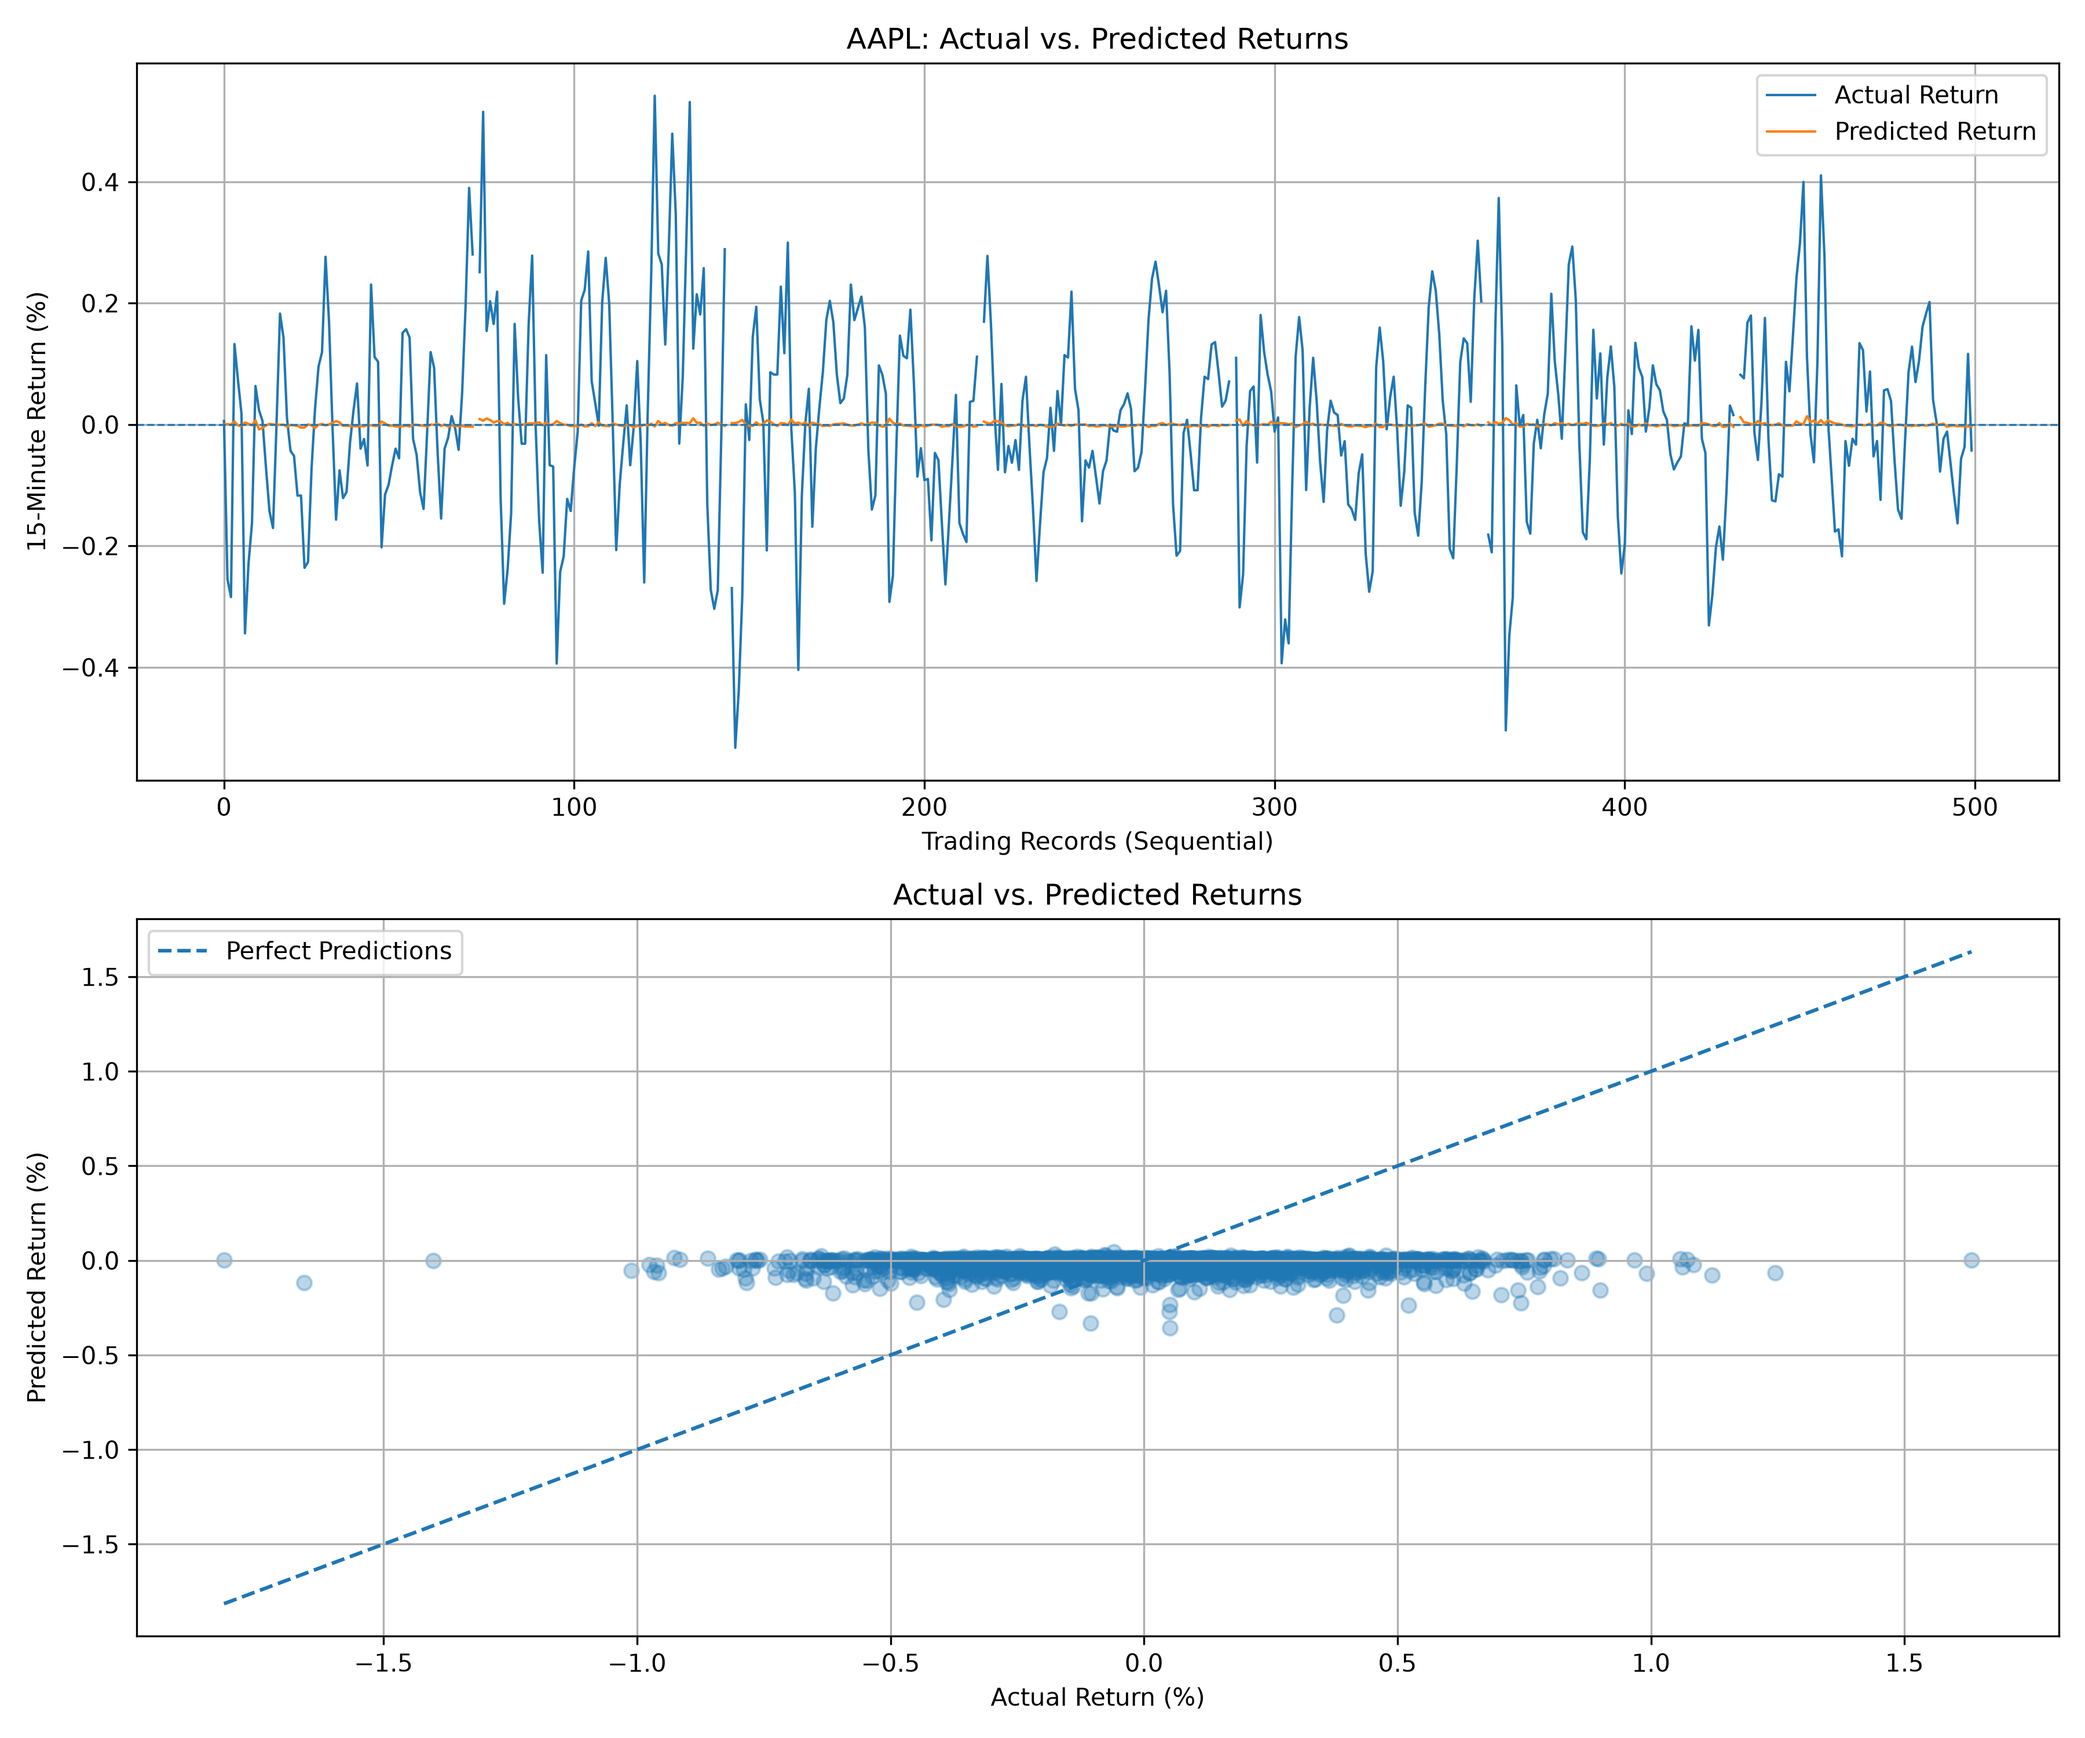
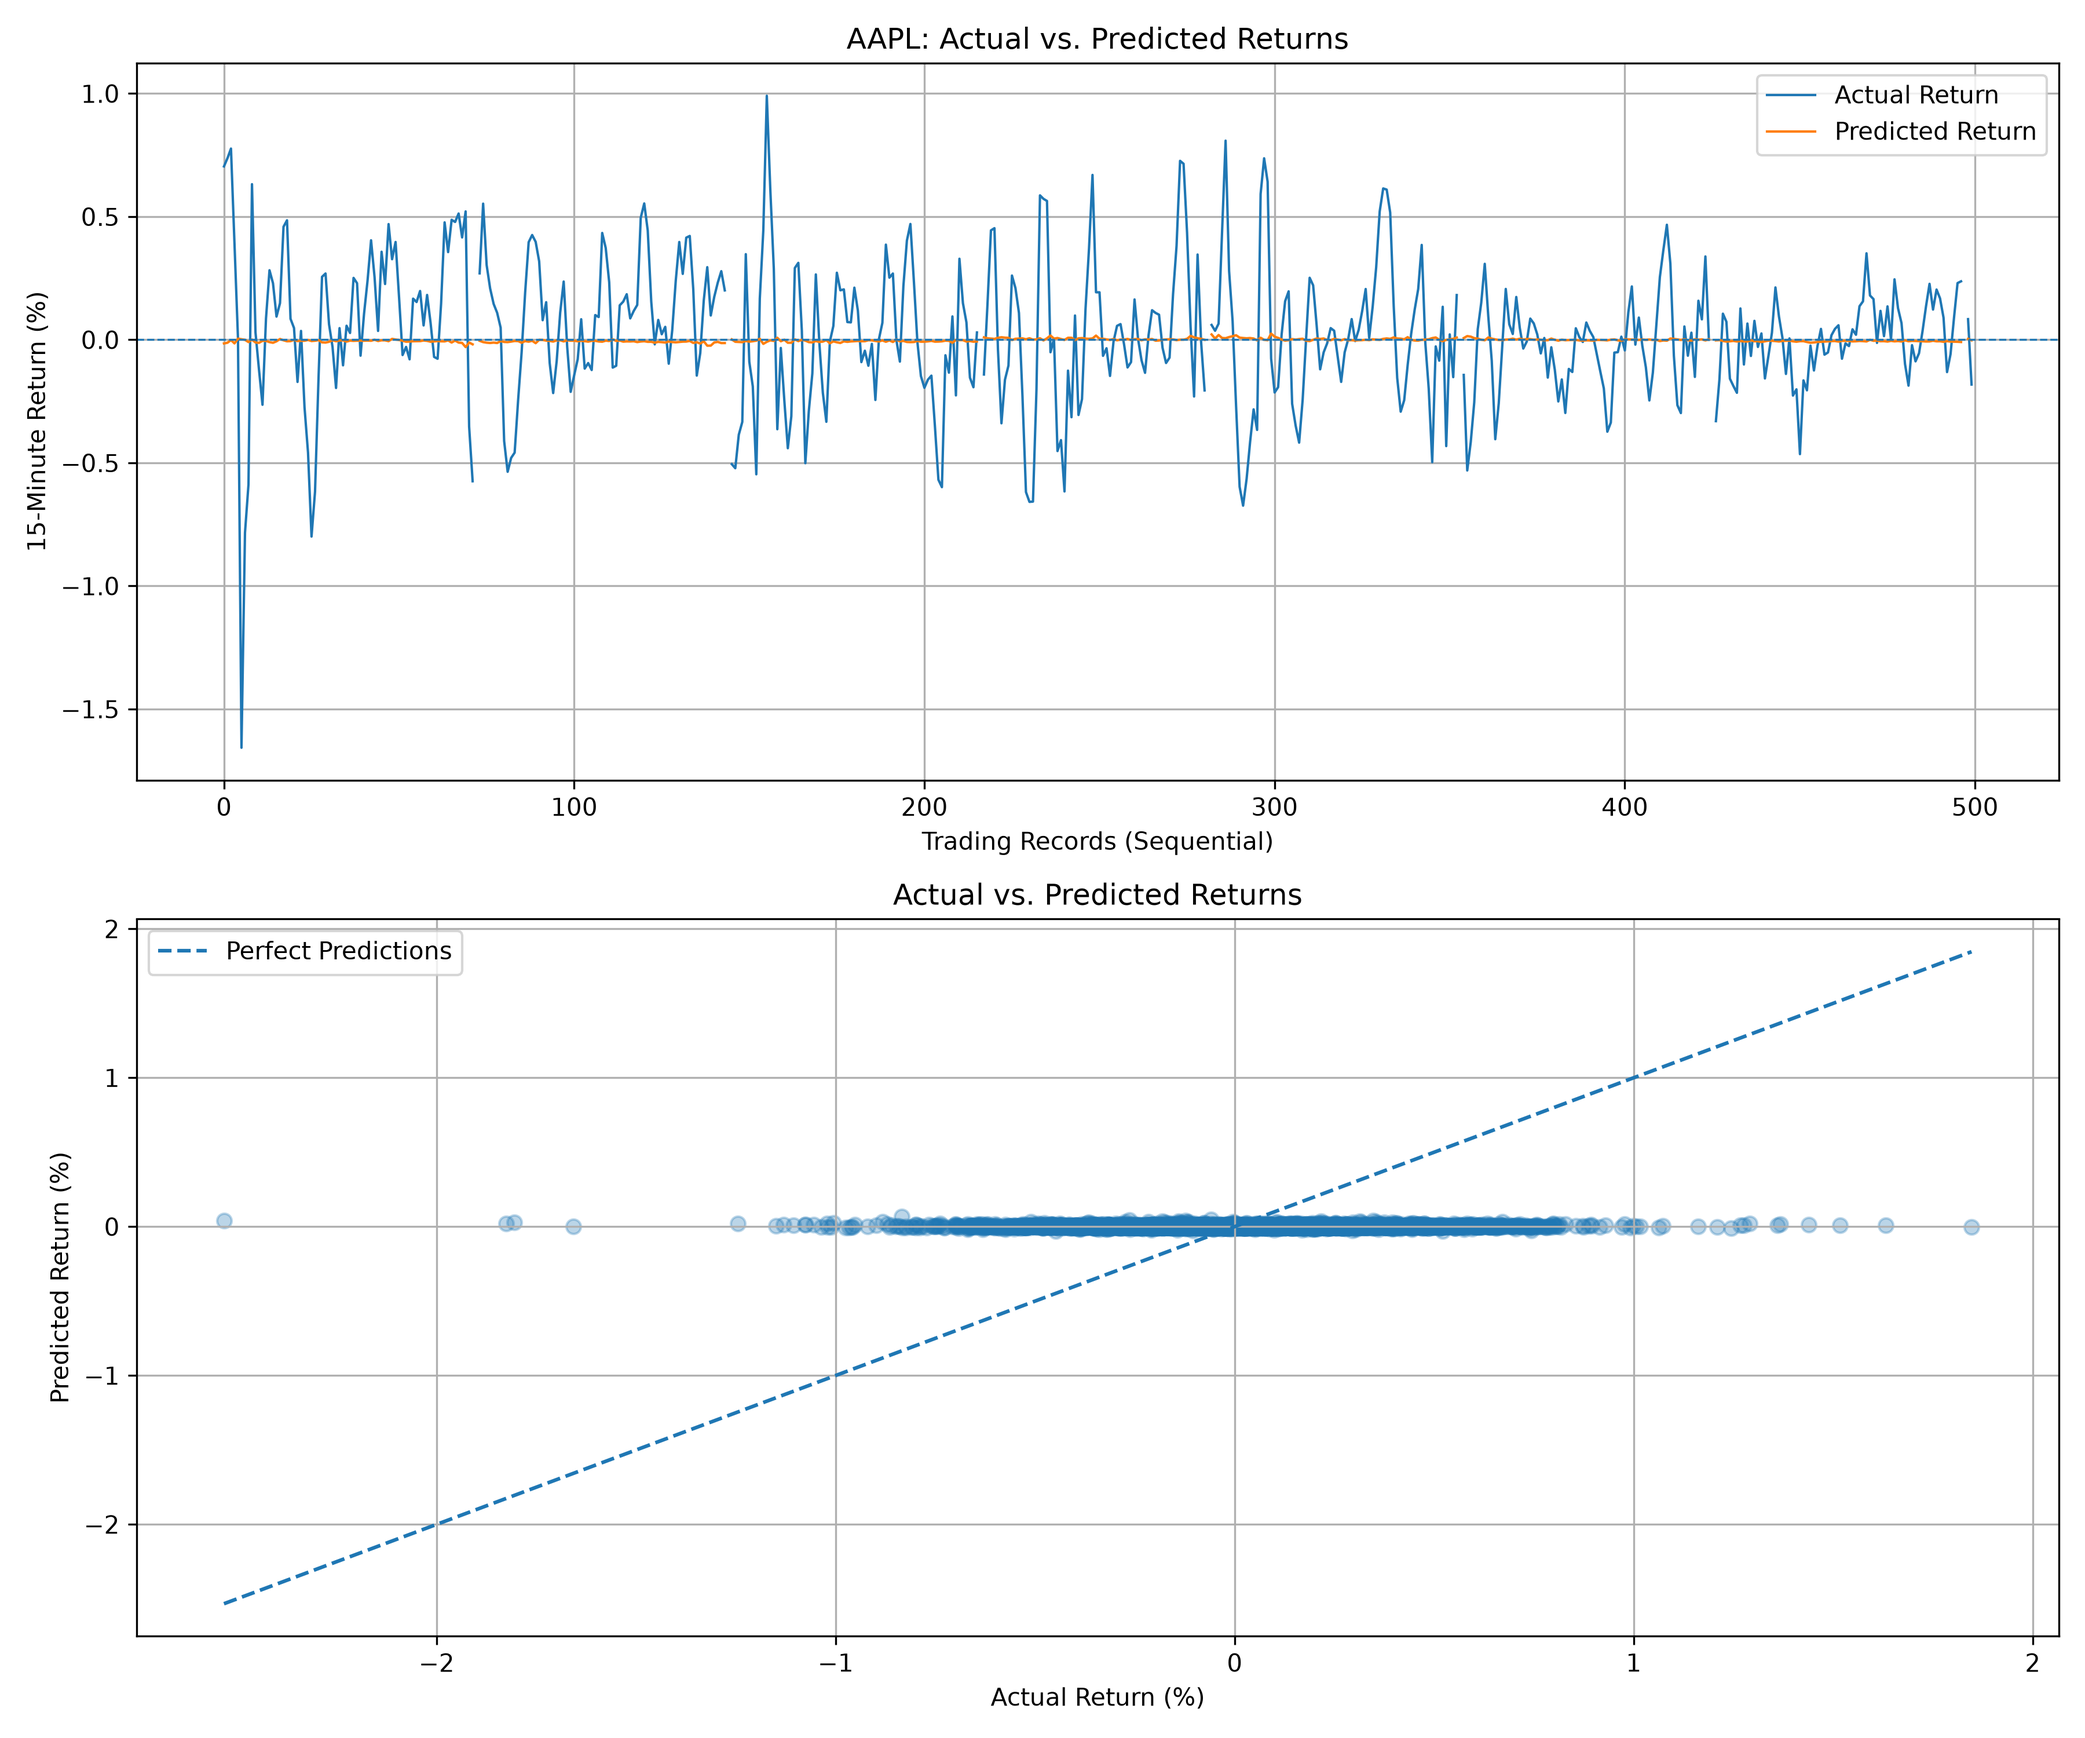
Add .gitignore and update LOCAL_DB_PATH in explore_stocks.py for local database access

diff --git a/explore_stocks.py b/explore_stocks.py
@@ -9,7 +9,7 @@ from time import perf_counter
 from pathlib import Path
 
 NETWORK_DB_PATH = Path(r"\\192.168.1.95\CS-CLASSROOM\intraday_5m.sqlite")
-LOCAL_DB_PATH = Path("intraday_5m.sqlite")
+LOCAL_DB_PATH = Path("/media/compsci/Expansion/MarketDatabase_20261112T164047Z/intraday_5m.sqlite")
 
 # A local copy avoids network latency. If it is not present, use the NAS copy.
 DB_PATH = LOCAL_DB_PATH if LOCAL_DB_PATH.is_file() else NETWORK_DB_PATH
